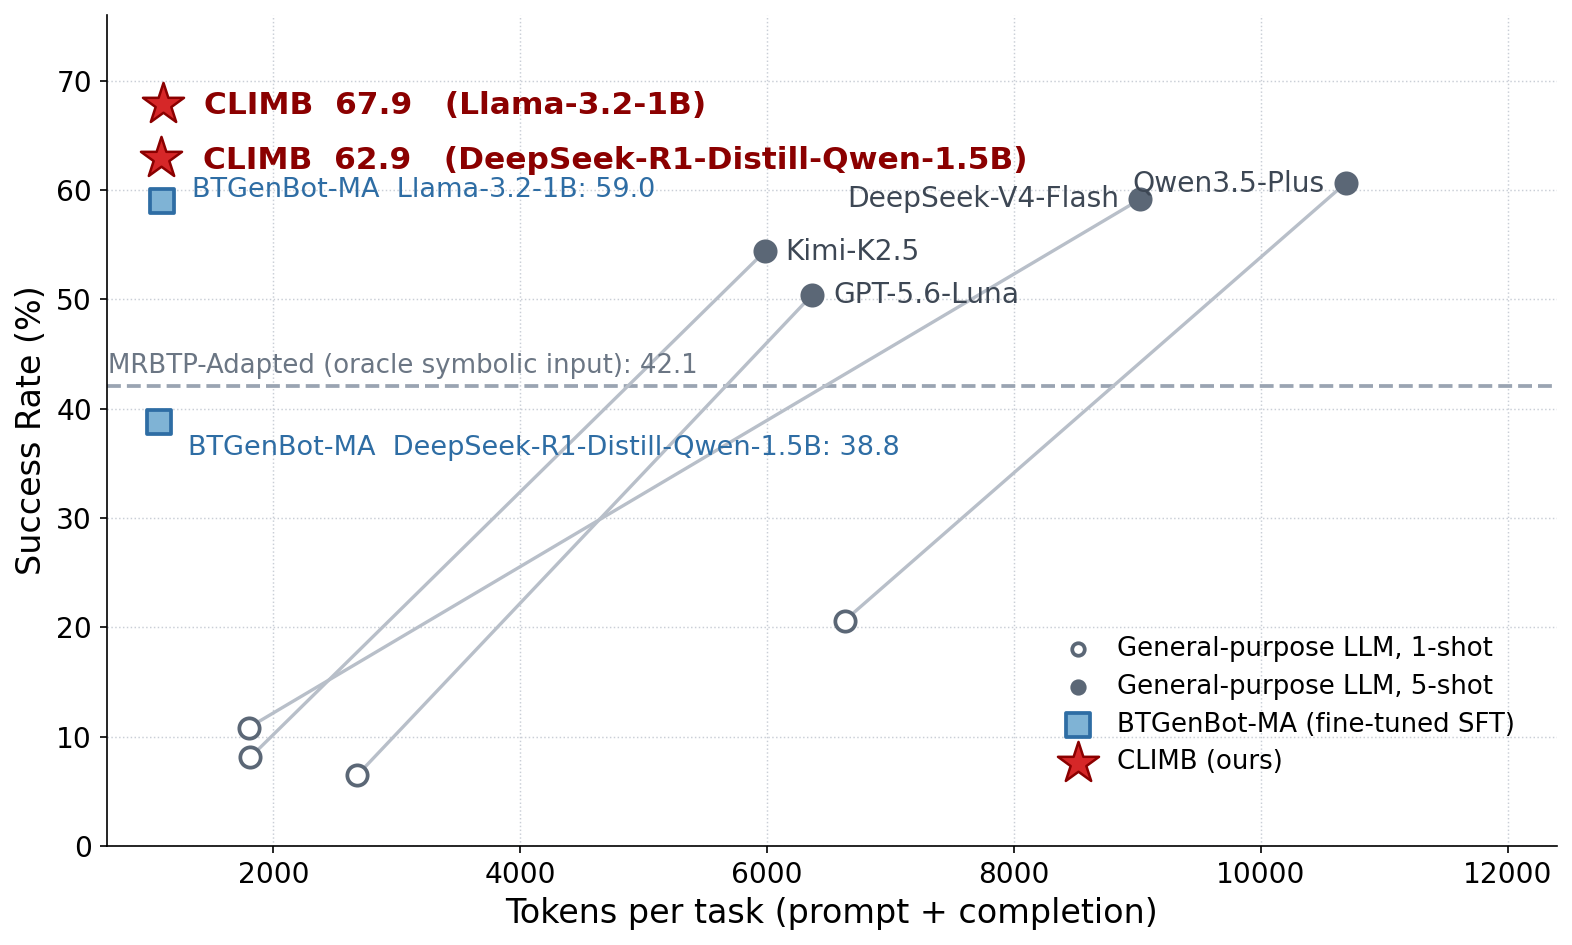
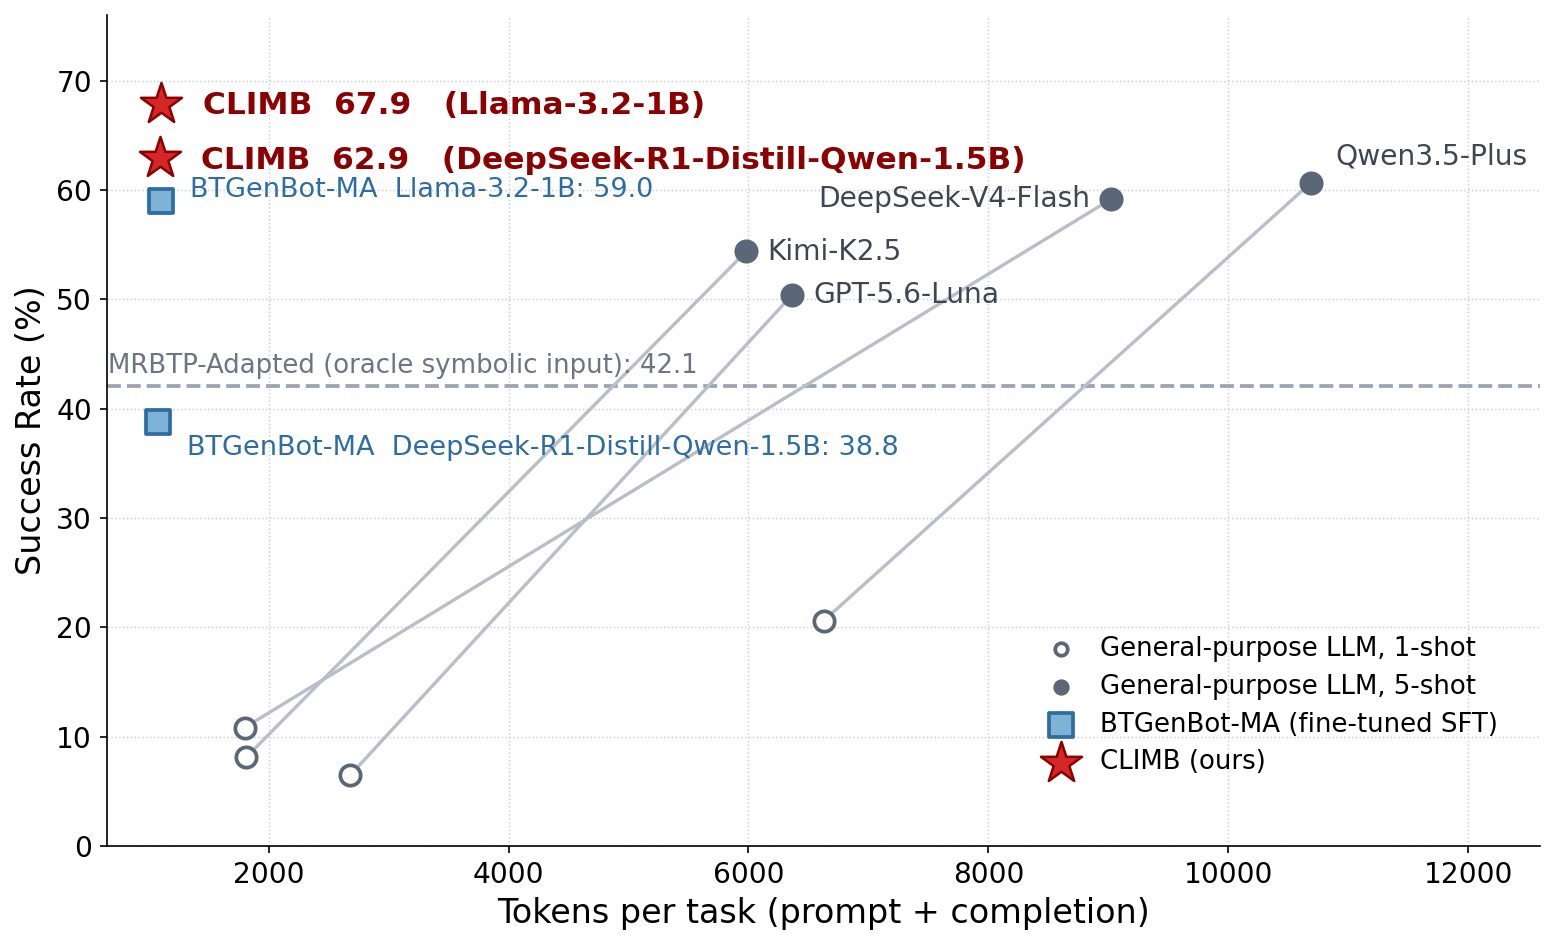
Page: drop subtitle parentheses, full backbone names in tables, Pareto label placement

diff --git a/docs/index.html b/docs/index.html
@@ -64,7 +64,7 @@
       <div class="column is-four-fifths">
         <p class="tag-paper">ICASSP 2027 under review</p>
         <h1 class="title is-1 publication-title">CLIMB</h1>
-        <h2 class="subtitle is-4">(<strong>C</strong>urriculum <strong>L</strong>earn<strong>i</strong>ng for <strong>M</strong>ulti-agent <strong>B</strong>ehavior Tree Generation with Small Language Models)</h2>
+        <h2 class="subtitle is-4"><strong>C</strong>urriculum <strong>L</strong>earn<strong>i</strong>ng for <strong>M</strong>ulti-agent <strong>B</strong>ehavior Tree Generation with Small Language Models</h2>
         <div class="is-size-5 publication-authors">
           <span class="author-block">Yichen Wang<sup>1</sup>,</span>
           <span class="author-block">Zhongxuan Cai<sup>1,*</sup></span>,
@@ -179,11 +179,11 @@
         <tr><td>Kimi-K2.5</td><td>8.12</td><td>54.38</td><td>1,813</td><td>5,981</td></tr>
         <tr><td>DeepSeek-V4-Flash</td><td>10.83</td><td>59.17</td><td>1,799</td><td>9,024</td></tr>
         <tr><td>Qwen3.5-Plus</td><td>20.62</td><td>60.63</td><td>6,628</td><td>10,686</td></tr>
-        <tr><td>BTGenBot-MA (Llama-3.2-1B)</td><td colspan="2">59.0</td><td colspan="2">1,102</td></tr>
-        <tr><td>BTGenBot-MA (R1-Distill-Qwen-1.5B)</td><td colspan="2">38.8</td><td colspan="2">1,076</td></tr>
+        <tr><td>BTGenBot-MA (Llama-3.2-1B-Instruct)</td><td colspan="2">59.0</td><td colspan="2">1,102</td></tr>
+        <tr><td>BTGenBot-MA (DeepSeek-R1-Distill-Qwen-1.5B)</td><td colspan="2">38.8</td><td colspan="2">1,076</td></tr>
         <tr><td>MRBTP-Adapted<sup>&dagger;</sup></td><td colspan="2">42.1</td><td colspan="2">&mdash;</td></tr>
         <tr class="ours-row"><td>CLIMB (Llama-3.2-1B-Instruct)</td><td colspan="2"><strong>67.9</strong></td><td colspan="2">1,104</td></tr>
-        <tr class="ours-row"><td>CLIMB (R1-Distill-Qwen-1.5B)</td><td colspan="2"><strong>62.9</strong></td><td colspan="2">1,092</td></tr>
+        <tr class="ours-row"><td>CLIMB (DeepSeek-R1-Distill-Qwen-1.5B)</td><td colspan="2"><strong>62.9</strong></td><td colspan="2">1,092</td></tr>
       </tbody>
     </table>
     <p class="is-size-7">&dagger; Official MABTP search with oracle nominal formalization; its reactive trees are
@@ -195,7 +195,7 @@
   <div class="content">
     <table class="table is-bordered results" style="margin:auto">
       <thead>
-        <tr><th rowspan="2">Configuration</th><th colspan="3">Llama-3.2-1B</th><th colspan="3">R1-Distill-Qwen-1.5B</th></tr>
+        <tr><th rowspan="2">Configuration</th><th colspan="3">Llama-3.2-1B</th><th colspan="3">DeepSeek-R1-Distill-Qwen-1.5B</th></tr>
         <tr><th>SR (%)</th><th>&Delta; SR</th><th>Tokens</th><th>SR (%)</th><th>&Delta; SR</th><th>Tokens</th></tr>
       </thead>
       <tbody>
